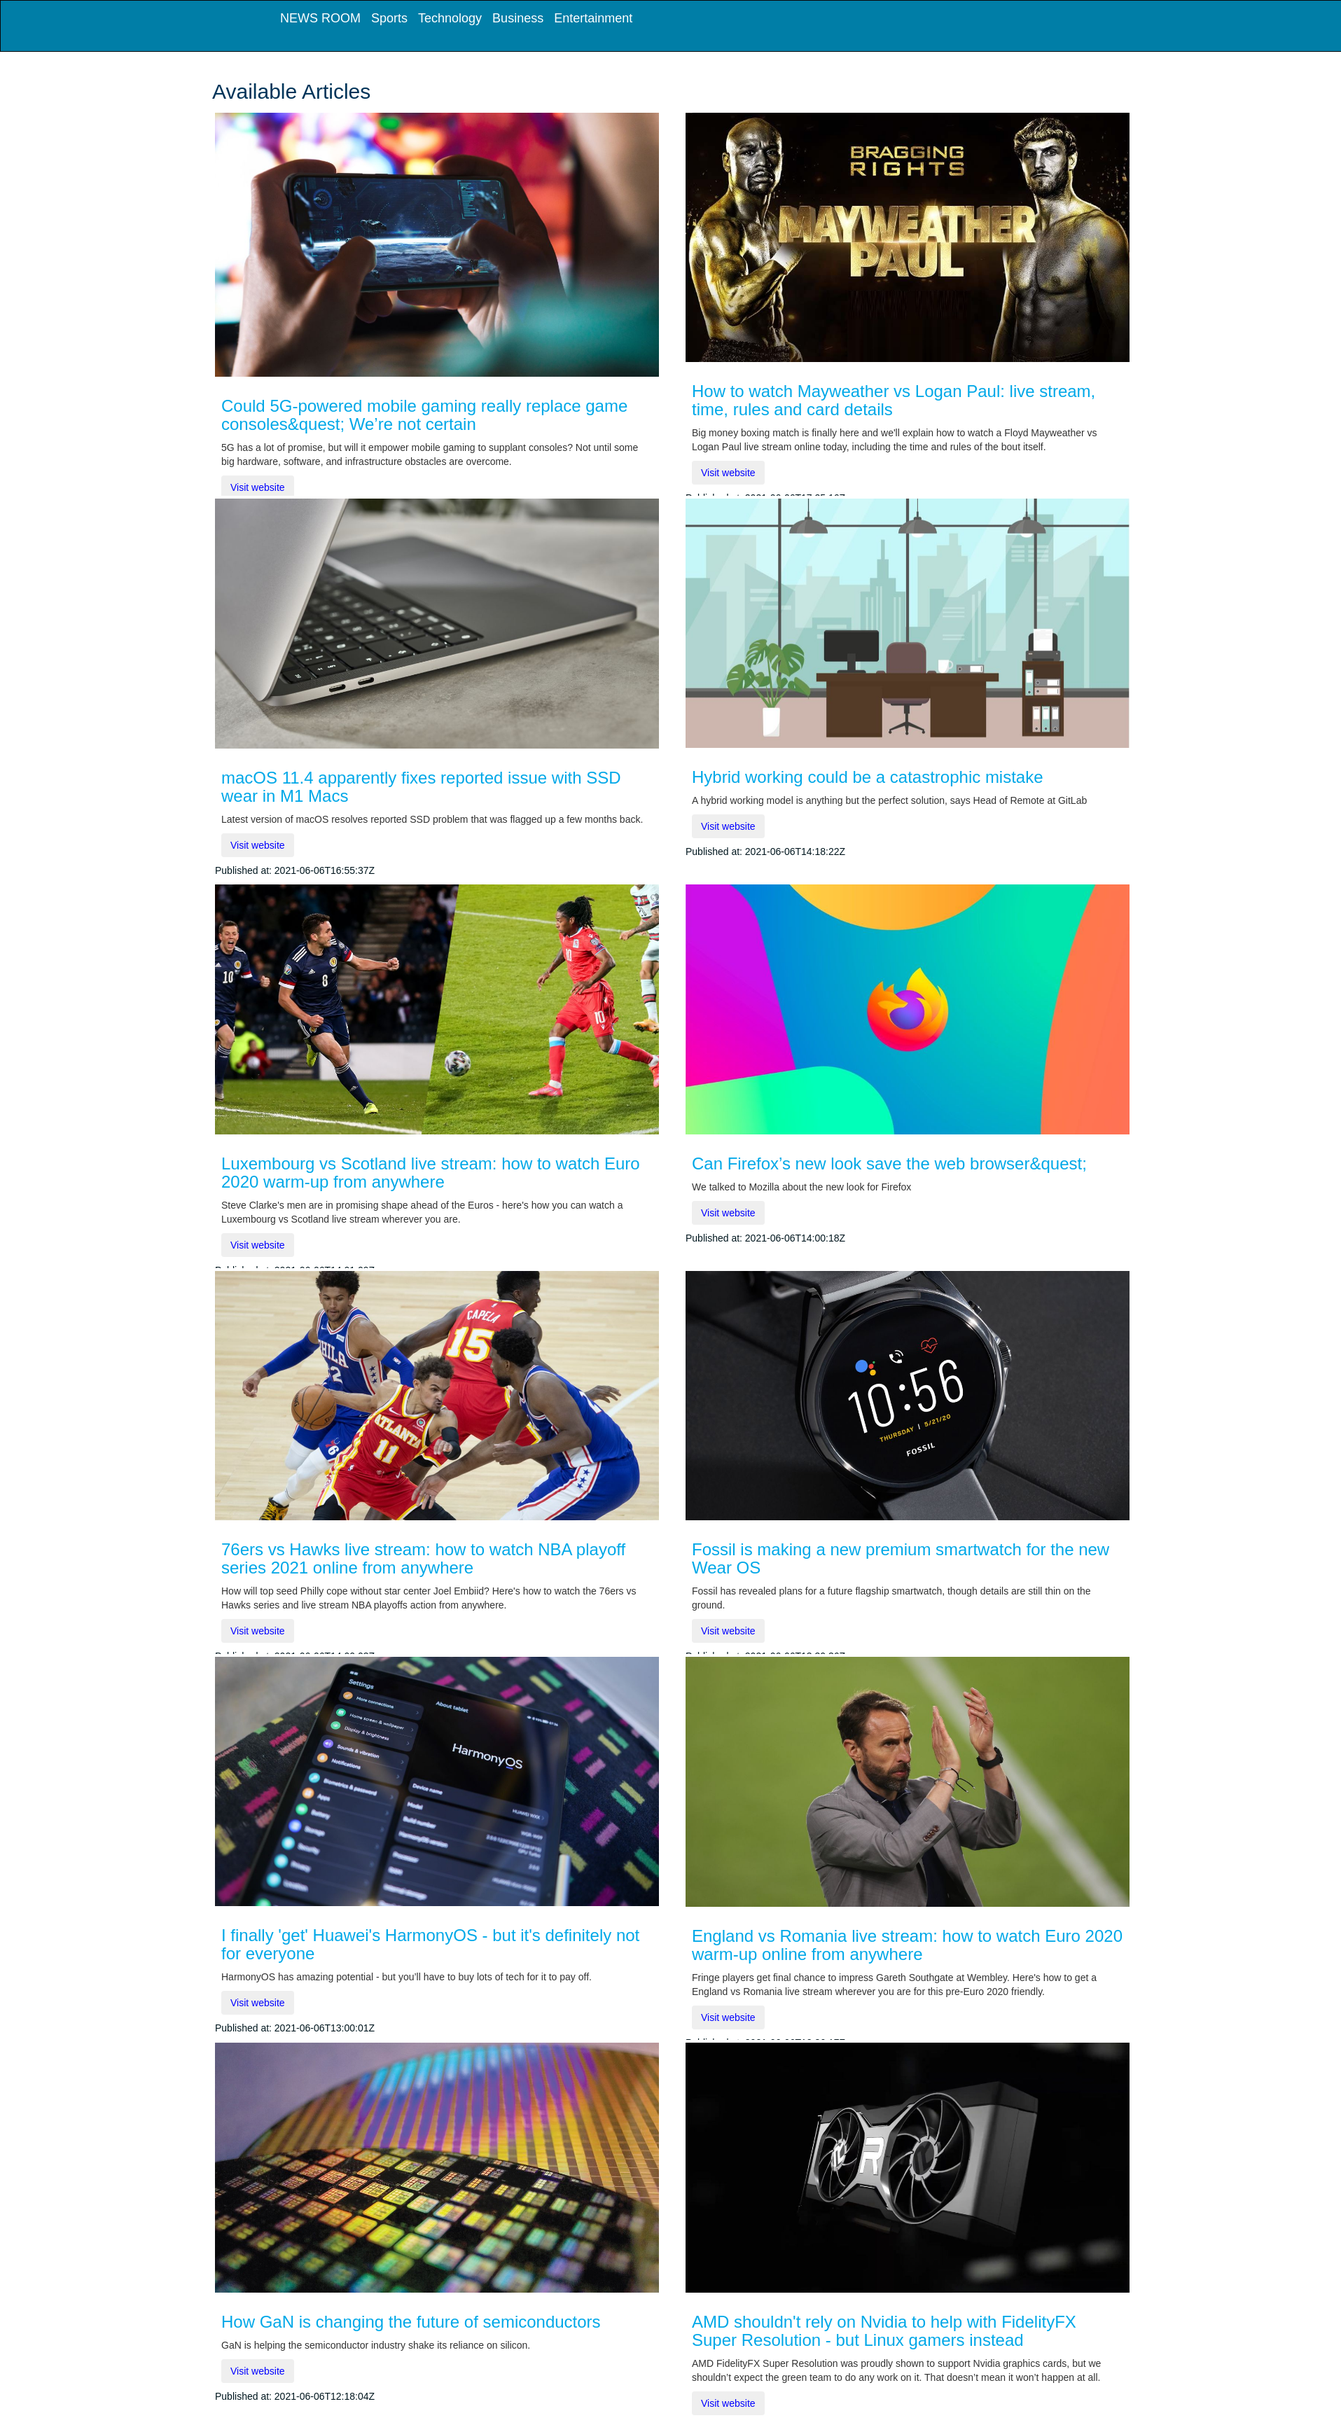
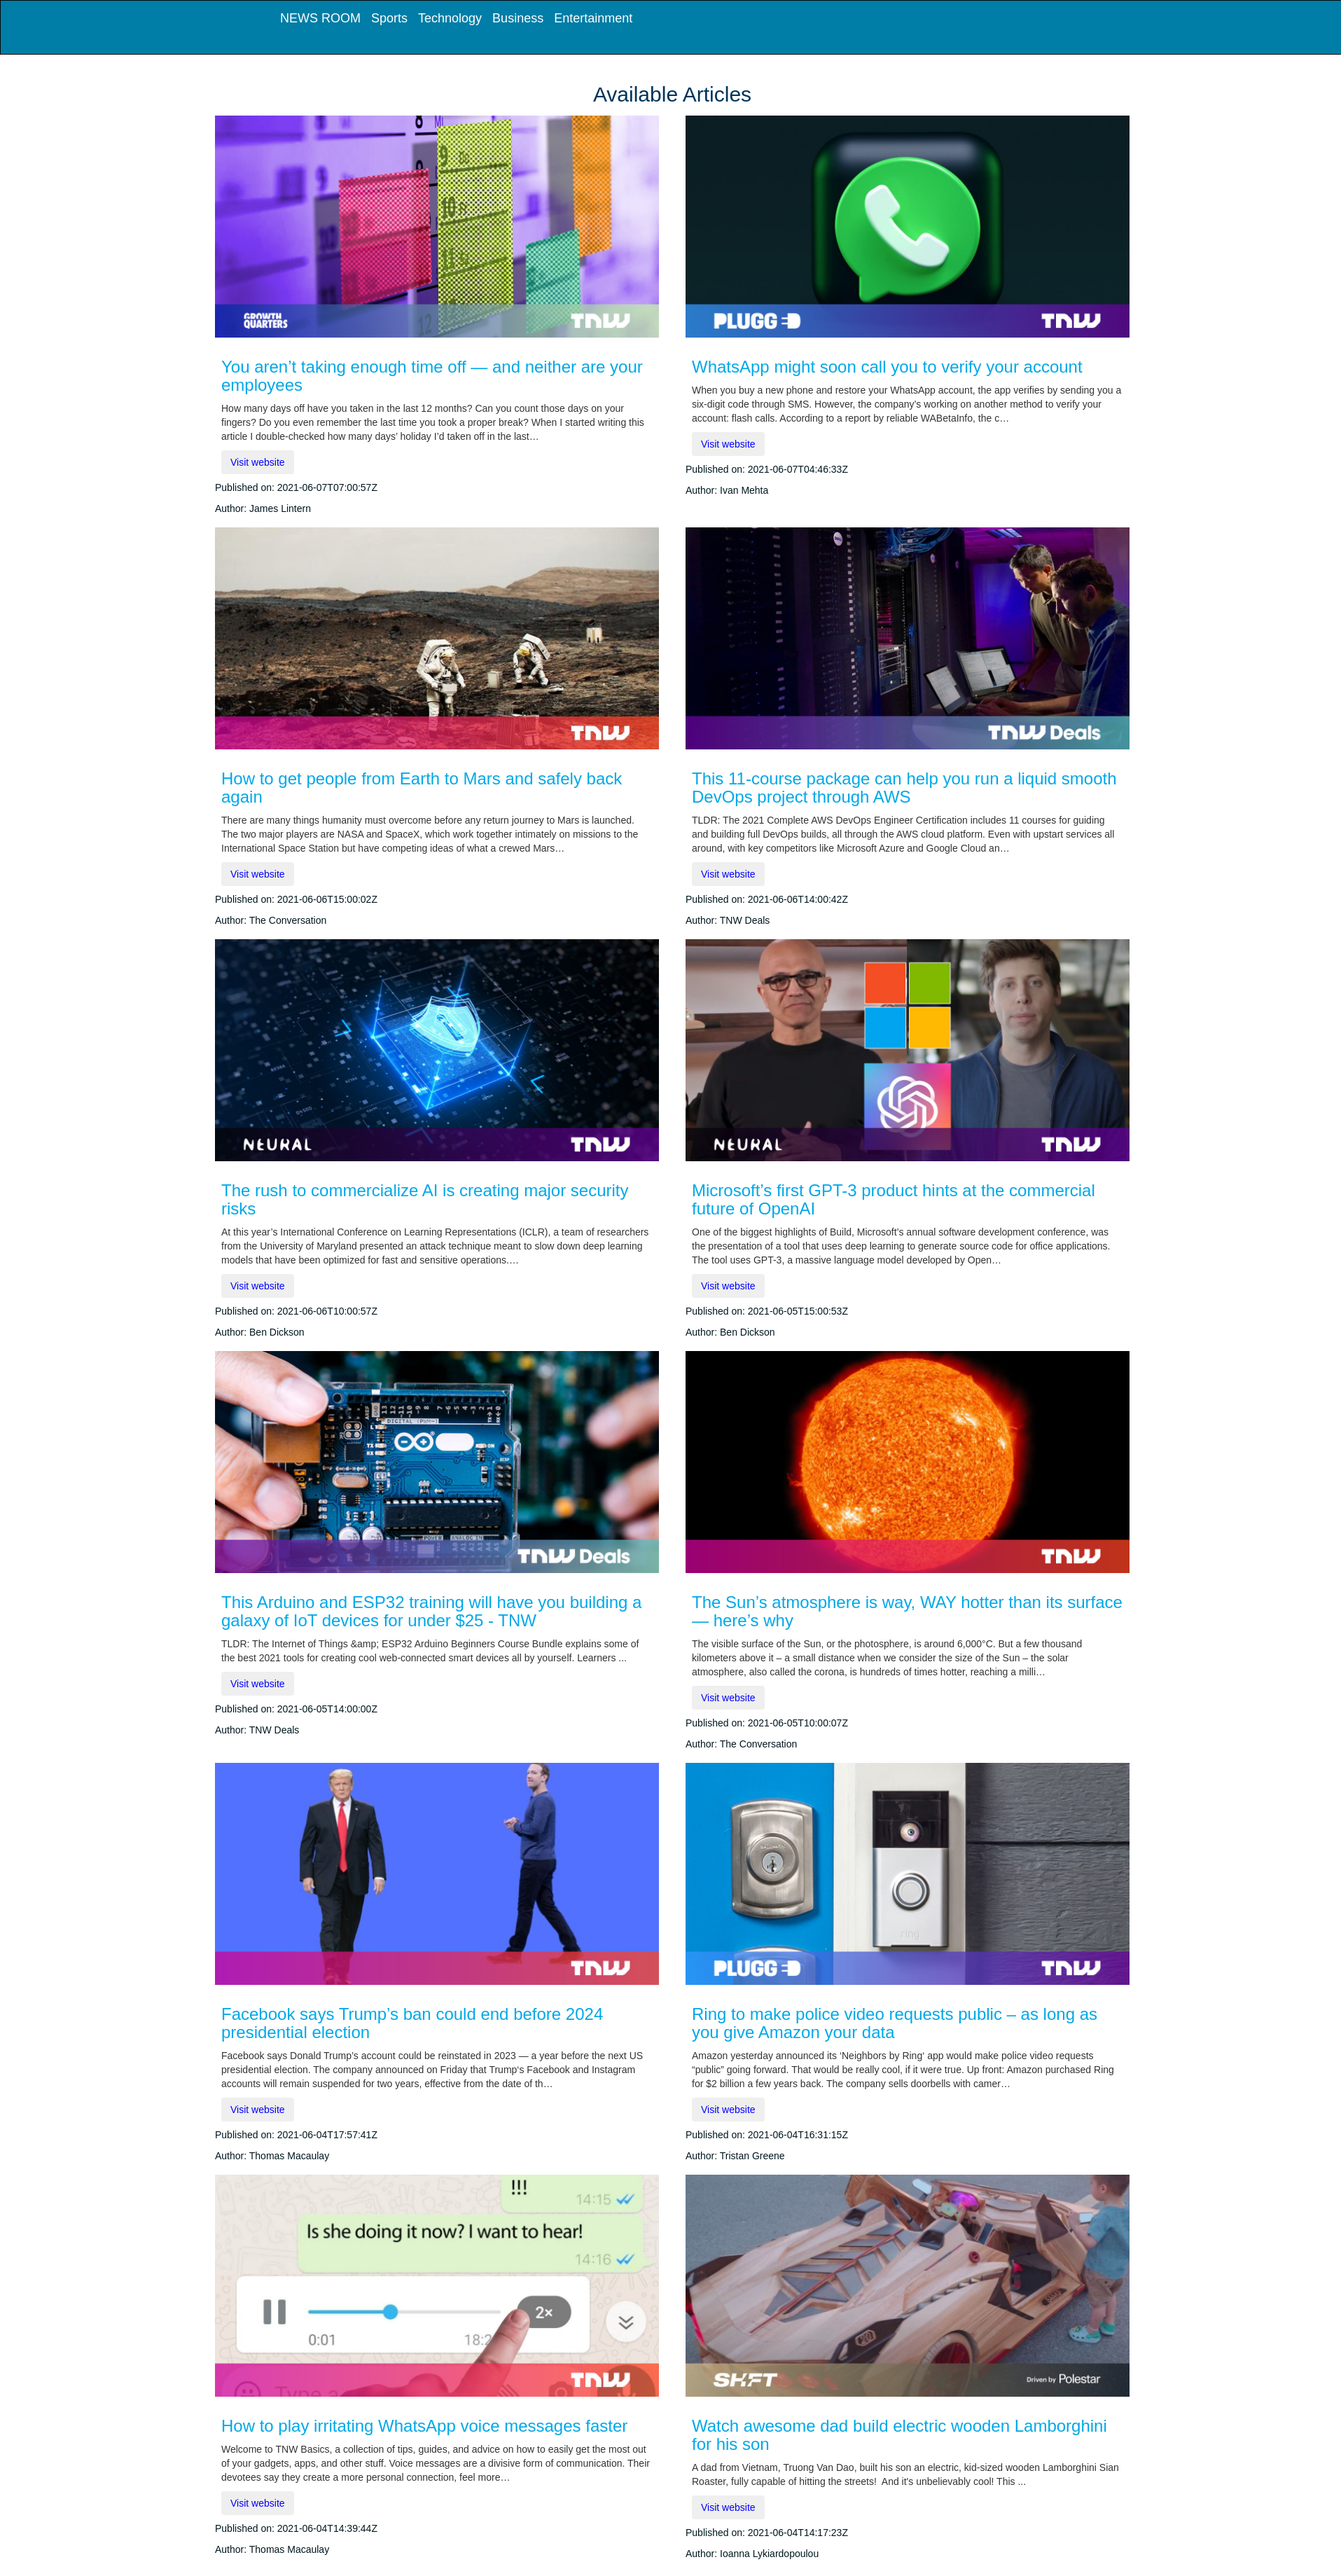
Update styles and add articles image

diff --git a/app/templates/news_articles.html b/app/templates/news_articles.html
@@ -4,12 +4,13 @@
 {% block styles%}
 {{ super() }}
 <link rel="stylesheet" href="{{url_for('static',filename='css/index.css')}}" />
+<link href='http://fonts.googleapis.com/css?family=Open+Sans+Condensed:300' rel='stylesheet' type='text/css'>
 {% endblock %}
 
 {% block content%}
 <div class="container">
 	<!-- Popular movie section  -->
-	<h2>Available Articles</h2>
+	<h2 class="article-heading">Available Articles</h2>
 	{% for article_row in articles | batch(4)%}
 	<div class="row">
 		{% for article in article_row %}
@@ -24,7 +25,8 @@
 					<a href="{{article.url}}" target="_blank"><button class="btn btn-outline-primary">Visit website</button></a>
 				</div>
 				<div class="footer">
-					Published at: {{article.date}}
+					<p>Published on: {{article.date}}</p>
+					<p>Author: {{article.author}}</p>
 				</div>
 			</div>
 		</div>

diff --git a/app/templates/macros.html b/app/templates/macros.html
@@ -10,7 +10,7 @@
 			<p>
 				{{ sources.description}}
 			</p>
-			<a href="/articles/{{sources.id}}"><button type="button" class="btn btn-outline-primary">View {{ sources.name}} articles</button></a>
+			<a href="/news_articles/{{sources.id}}"><button type="button" class="btn btn-outline-primary">View {{ sources.name}} articles</button></a>
 		</div>
 	</div>
 	{% endfor %}

diff --git a/app/static/css/index.css b/app/static/css/index.css
@@ -10,8 +10,12 @@ body {
 h2 {
   color: #003459 ;
 }
+.article-heading {
+  text-align: center;
+}
 h1 {
   margin-bottom: 4vh;
+  text-align: center;
 }
 h3 {
   color: #00a8e8 !important;
@@ -58,7 +62,9 @@ img {
   }
 }
 @media (max-width: 1000px) {
-
+  .article {
+    height: auto !important;
+  }
 }
 .navbar {
   background-color: #007ea7;

diff --git a/app/templates/fourOwfour.html b/app/templates/fourOwfour.html
@@ -4,6 +4,7 @@
 {% block styles%}
  {{ super() }}
   <link rel="stylesheet" href="{{url_for('static',filename='css/index.css')}}"/>
+  <link href='http://fonts.googleapis.com/css?family=Open+Sans+Condensed:300' rel='stylesheet' type='text/css'>
 {% endblock %}
 
 <!-- content block -->

diff --git a/app/templates/index.html b/app/templates/index.html
@@ -5,6 +5,7 @@
 {% block styles%}
 {{ super() }}
 <link rel="stylesheet" href="{{url_for('static',filename='css/index.css')}}" />
+<link href='http://fonts.googleapis.com/css?family=Open+Sans+Condensed:300' rel='stylesheet' type='text/css'>
 {% endblock %}
 
 <!-- Content block -->

diff --git a/tests/test_articles.py b/tests/test_articles.py
@@ -1,0 +1,24 @@
+import unittest
+from app.models import NewsArticle
+class ArticlesTest(unittest.TestCase):
+    '''
+    Test Class to test the behaviour of the Movie class
+    '''
+
+    def setUp(self):
+        '''
+        Set up method that will run before every Test
+        '''
+        self.new_article = NewsArticle('Scotlands papers','Kevin Richer','Pupil low test uptake and royal gran gesture','The front pages cover the birth of Meghan and Harry is baby and reports that pupils are not taking regular Covid tests.','https://www.bbc.co.uk/news/uk-scotland-57381085','skotlands.com/7643t94.jpg','2021-06-07T06:13:47Z')
+
+    def test_instance(self):
+        self.assertTrue(isinstance(self.new_article,NewsArticle))
+
+    def test_to_check_instance_variables(self):
+        self.assertEquals(self.new_article.id,'Scotlands papers')
+        self.assertEquals(self.new_article.author,'Kevin Richer')
+        self.assertEquals(self.new_article.title,'Pupil low test uptake and royal gran gesture')
+        self.assertEquals(self.new_article.description,'The front pages cover the birth of Meghan and Harry is baby and reports that pupils are not taking regular Covid tests.')
+        self.assertEquals(self.new_article.url,'https://www.bbc.co.uk/news/uk-scotland-57381085')
+        self.assertEquals(self.new_article.image,'skotlands.com/7643t94.jpg')
+        self.assertEquals(self.new_article.date,'2021-06-07T06:13:47Z')

diff --git a/tests/test_source.py b/tests/test_source.py
@@ -1,0 +1,24 @@
+import unittest
+from app.models import NewsSource
+
+class SourcesTest(unittest.TestCase):
+    '''
+    Test Class to test the behaviour of the Movie class
+    '''
+
+    def setUp(self):
+        '''
+        Set up method that will run before every Test
+        '''
+        self.new_source = NewsSource('new-scientist','New Scientist','Breaking science and technology news from around the world.','https://www.newscientist.com/section/news','science','us')
+
+    def test_instance(self):
+        self.assertTrue(isinstance(self.new_source,NewsSource))
+
+    def test_to_check_instance_variables(self):
+        self.assertEquals(self.new_source.id,'new-scientist')
+        self.assertEquals(self.new_source.name,'New Scientist')
+        self.assertEquals(self.new_source.description,'Breaking science and technology news from around the world.')
+        self.assertEquals(self.new_source.url,'https://www.newscientist.com/section/news')
+        self.assertEquals(self.new_source.category,'science')
+        self.assertEquals(self.new_source.country,'us')

diff --git a/app/main/views.py b/app/main/views.py
@@ -17,7 +17,7 @@ def index():
 
 	return render_template('index.html',title = title, technology = technology,business = business,sports = sports,entertainment = entertainment)
 
-@main.route('/articles/<id>')
+@main.route('/news_articles/<id>')
 def articles(id):
 	'''
 	view articles  page function that returns the articles page and its data
@@ -26,4 +26,4 @@ def articles(id):
 	articles = get_articles(id)
 	title = f'News Room articles | {id}'
 
-	return render_template('articles.html',title= title,articles = articles)
+	return render_template('news_articles.html',title= title,articles = articles)
